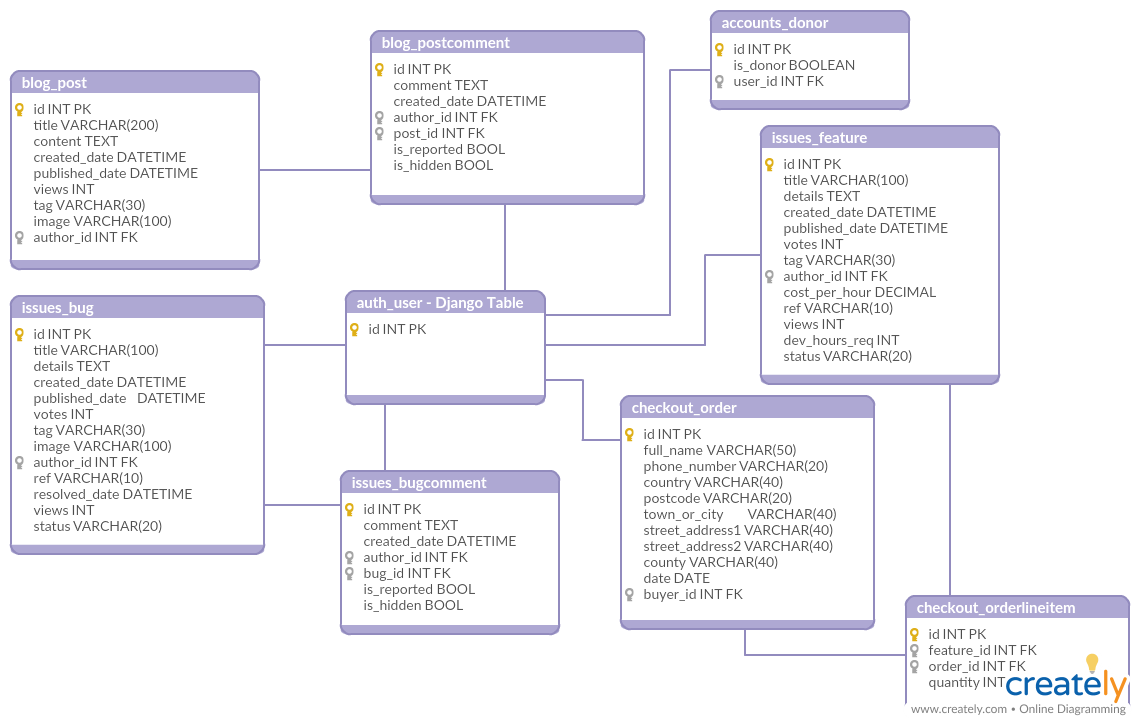
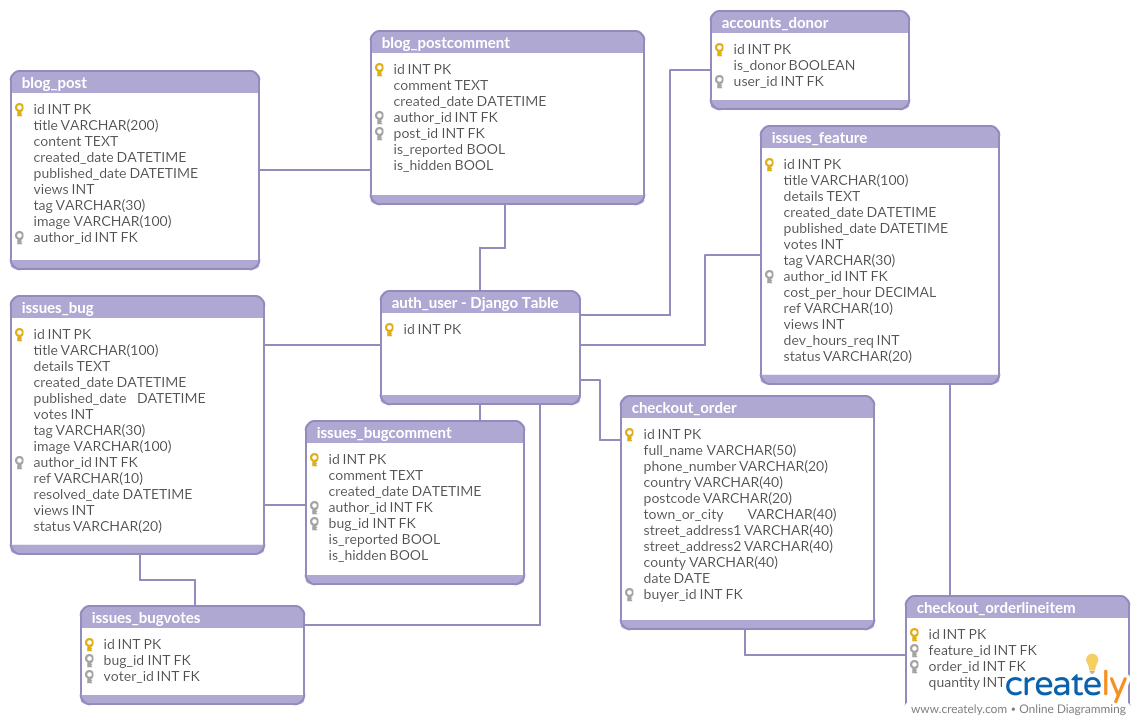
Seperated create bug and edit bug functionality. Check made on edit page to ensure editor is the author Updated db image to include bugvotes table Added alt and title tags to images Combined create reference functions for bugs and features Added remove option button on cart page Readme updates

Changed region(s): [[0.0614, 0.5462, 0.4912, 0.971], [0.307, 0.3945, 0.5219, 0.4855], [0.4605, 0.5159, 0.5219, 0.5766]]

diff --git a/issues/templates/featuredetail.html b/issues/templates/featuredetail.html
@@ -83,7 +83,7 @@
 <div class="row text-center mb-4">
     <!-- if you got to this page from orders view then go back to orders view -->
     {% if from_orders == True %}
-    <div class="col-12 col-md-3 pt-2"><a href="{{ refering_order }}" class=" btn btn-info"><i class="fas fa-arrow-left"></i>
+    <div class="col-12 col-md-3 pt-2"><a href="{{ refering_order }}" class=" btn btn-success"><i class="fas fa-arrow-left"></i>
             Back to Order Details</a></div>
     {% else %}
     <!-- ELSE GO BACK TO ALL FEATURES VIEW -->
@@ -92,7 +92,7 @@
     {% endif %}
     <!-- IF YOU ARE THE AUTHOR YOU CAN EDIT THE FEATURE -->
     {% if user.username == feature.author.username %}
-    <div class="col-12 col-md-3 pt-2"><a href="{% url 'edit_feature' feature.id %}" class="btn btn-info"><i class="far fa-edit"></i>
+    <div class="col-12 col-md-3 pt-2"><a href="{% url 'edit_feature' feature.id %}" class="btn btn-success"><i class="far fa-edit"></i>
             Edit feature</a></div>
     {% endif %}
     <!-- IF YOU ARE A SUPERUSER OR MEMBER OF ADMIN GROUP-->
@@ -104,10 +104,10 @@
     {% if feature.status == 'Target not Reached' %}
     <!-- IF YOU CREATED THE FEATURE YOU CAN DONATE 'MORE' MONEY -->
     <div class="col-12 col-md-3 pt-2">{% if user.username == feature.author.username %}
-        <button type="button" class="btn btn-info donate_feature_button"><i class="fas fa-donate"></i> Donate again</button>
+        <button type="button" class="btn btn-success donate_feature_button"><i class="fas fa-donate"></i> Donate again</button>
         {% else %}
         <!-- ELSE DONATE MONEY -->
-        <button type="button" class="btn btn-info donate_feature_button"><i class="fas fa-donate"></i> Donate</button>
+        <button type="button" class="btn btn-success donate_feature_button"><i class="fas fa-donate"></i> Donate</button>
         {% endif %}
     </div>
     {% endif %}

diff --git a/templates/base_pages.html b/templates/base_pages.html
@@ -57,7 +57,7 @@
                 </li>
                 <!-- search -->
                 <form class="form-inline my-2 my-lg-0" action="{% url 'search' %}" method="get">
-                    <input class="form-control mr-sm-2" type="text" placeholder="Search" aria-label="Search" name="q"
+                    <input class="form-control mr-sm-2" type="text" placeholder="Search..." aria-label="Search" name="q"
                         minlength="4">
                     <button class="btn btn-outline-success my-2 my-sm-0" type="submit"><i class="fas fa-search"></i>
                         Search</button>
@@ -79,8 +79,8 @@
     {% if messages %}
     <div class="mt-3 mb-2 messages-wrapper">
         {% for message in messages %}
-        <div class="text-right messages alert-success boldtext">{{ message }}
-            <button type="button" class="close-message btn btn-success px-0 py-0 ml-2">&times;</button>
+        <div class="text-right messages alert-danger boldtext pr-5">{{ message }}
+            <button type="button" class="close-message btn px-0 py-0 ml-2">&times;</button>
         </div>
         {% endfor %}
     </div>
@@ -95,7 +95,7 @@
                             View all Bugs</a>
                     </li>
                     <li class="list-group-item d-flex justify-content-between align-items-center">
-                        <a href="{% url 'new_bug' %}" class="btn btn-primary issues-button"><i class="fas fa-plus-square"></i>
+                        <a href="{% url 'create_bug' %}" class="btn btn-primary issues-button"><i class="fas fa-plus-square"></i>
                             Submit a Bug</a>
                     </li>
                     <li class="list-group-item d-flex justify-content-between align-items-center">

diff --git a/issues/templates/bugform_new.html b/issues/templates/bugform_new.html
@@ -2,7 +2,7 @@
 {% load bootstrap_tags %}
 {% block page_title %}Submit Bug{% endblock %}
 
-{% block page_heading %}Bug{% endblock %}
+{% block page_heading %}New Bug{% endblock %}
 {% block page_heading_sub %}Submit a Bug for investigation{% endblock %}
 
 {% block content %}
@@ -11,23 +11,13 @@
     <div class="container">
         <div class="row">
             <div class="col-12">
-                {% if request.path == '/issues/new/' %}
-                <h1>New bug</h1>
-                {% else %}
-                <h1>Edit bug</h1>
-                {% endif %}
                 <form method="POST" enctype="multipart/form-data">
                     {% csrf_token %}
                     {{ form | as_bootstrap }}
                     <div class="text-center mb-2">
                         <button type="submit" class="btn btn-success"><i class="far fa-save"></i> Save</button>
-                        {% if request.path != '/issues/new/' %}
-                        <button type="submit" name="cancel" value="Cancel" formnovalidate class="btn btn-success cancel"><i
-                                class="fas fa-arrow-left"></i> Cancel</button>
-                        {% else %}
                         <button type="button" class="btn btn-success cancel" id="goback" ONCLICK="goPrev()"><i class="fas fa-arrow-left"></i>
                             Cancel</button>
-                        {% endif %}
                     </div>
                 </form>
             </div>

diff --git a/issues/templates/bugform_edit.html b/issues/templates/bugform_edit.html
@@ -1,0 +1,33 @@
+{% extends 'base_pages.html' %}
+{% load bootstrap_tags %}
+{% block page_title %}Edit Bug{% endblock %}
+
+{% block page_heading %}Edit Bug{% endblock %}
+{% block page_heading_sub %}Edit Bug details{% endblock %}
+
+{% block content %}
+<!-- CREATE OR EDIT A BUG -->
+<div id="issueform">
+    <div class="container">
+        <div class="row">
+            <div class="col-12">
+                <h1>Edit bug</h1>
+                <form method="POST" enctype="multipart/form-data">
+                    {% csrf_token %}
+                    {{ form | as_bootstrap }}
+                    <div class="text-center mb-2">
+                        <button type="submit" class="btn btn-success"><i class="far fa-save"></i> Save</button>
+                        {% if request.path != '/issues/editbug/' %}
+                        <button type="submit" name="cancel" value="Cancel" formnovalidate class="btn btn-success cancel"><i
+                                class="fas fa-arrow-left"></i> Cancel</button>
+                        {% else %}
+                        <button type="button" class="btn btn-success cancel" id="goback" ONCLICK="goPrev()"><i class="fas fa-arrow-left"></i>
+                            Cancel</button>
+                        {% endif %}
+                    </div>
+                </form>
+            </div>
+        </div>
+    </div>
+</div>
+{% endblock %}

diff --git a/issues/templates/bugdetail.html b/issues/templates/bugdetail.html
@@ -18,7 +18,7 @@
     <div class="row mb-4">
         {% if bug.image %}
         <div class="col-12 col-md-3">
-            <img class="img-blogpost" src="{{ MEDIA_URL }}{{ bug.image }}">
+            <img class="img-blogpost" src="{{ MEDIA_URL }}{{ bug.image }}" alt="{{bug.title}}" title="{{bug.title}}">
         </div>
         {% endif %}
         <div class="col-12 col-md-9">
@@ -68,7 +68,7 @@
                 Back to Bugs</a></div>
         <!-- IF USER IS THE AUTHOR -->
         {% if user.username == bug.author.username %}
-        <div class="col-12 col-md-3 pt-2"><a href="{% url 'edit_bug' bug.id %}" class="btn btn-info"><i class="far fa-edit"></i>
+        <div class="col-12 col-md-3 pt-2"><a href="{% url 'edit_bug' bug.id %}" class="btn btn-success"><i class="far fa-edit"></i>
                 Edit bug</a></div>
         {% endif %}
         <!-- IF USER IS NOT THE AUTHOR -->
@@ -85,7 +85,7 @@
         {% else %}
         <div class="col-12 col-md-3 pt-2">
             <a href="#" class="btn btn-light disabled">Vote <i class="fas fa-arrow-up"></i></a>
-            <span class="text-nowrap small">You have previously voted for this Bug</span>
+            <span class="text-nowrap small">You have voted for this Bug</span>
         </div>
         {% endif %}
         <!-- IF YOU ARE A SUPERUSER OR MEMBER OF ADMIN GROUP-->

diff --git a/templates/base.html b/templates/base.html
@@ -57,7 +57,7 @@
                 </li>
                 <!-- search -->
                 <form class="form-inline my-2 my-lg-0" action="{% url 'search' %}" method="get">
-                    <input class="form-control mr-sm-2" type="text" placeholder="Search" aria-label="Search" name="q"
+                    <input class="form-control mr-sm-2" type="text" placeholder="Search..." aria-label="Search" name="q"
                         minlength="4">
                     <button class="btn btn-outline-success my-2 my-sm-0" type="submit"><i class="fas fa-search"></i>
                         Search</button>

diff --git a/cart/templates/cart.html b/cart/templates/cart.html
@@ -53,7 +53,9 @@
                         <div class="input-group-addon pl-4 pr-4">{{ item.quantity }}</div>
                     </div>
                 </div>
-                <button type="submit" class="btn btn-primary"><i class="far fa-edit"></i>Update</button>
+                <button type="submit" class="btn btn-primary mr-2"><i class="far fa-edit"></i>Update</button>
+                <a href="{% url 'remove_from_cart' item.id %}" class="btn btn-primary" role="button">
+                    <i class="far fa-times-circle pr-2"></i>Remove</a>
             </form>
         </div>
     </div>

diff --git a/blog/templates/postdetail.html b/blog/templates/postdetail.html
@@ -13,7 +13,7 @@
     <div class="row">
         {% if post.image %}
         <div class="col-12 col-md-3">
-            <img class="img-blogpost" src="{{ MEDIA_URL }}{{ post.image }}">
+            <img class="img-blogpost" src="{{ MEDIA_URL }}{{ post.image }}" alt="{{post.title}}" title="{{post.title}}">
         </div>
         {% endif %}
         <div class="col-12 col-md-9">

diff --git a/issues/views.py b/issues/views.py
@@ -1,4 +1,5 @@
 from django.shortcuts import render, get_object_or_404, redirect
+from django.contrib import messages
 from django.contrib.auth.decorators import login_required
 from django.utils import timezone
 from .models import Bug, Feature, BugComment, BugVotes
@@ -10,25 +11,21 @@ from checkout.models import OrderLineItem
 from django.core.paginator import Paginator, EmptyPage, PageNotAnInteger
 from .filters import BugsFilter, FeaturesFilter
 from django.db.models import Q
-from django.contrib import messages
 
 
 # Create your views here.
 
-def create_feature_ref():
+def create_ref(item_type):
     """
-    Create custom reference number for Features using random letters and numbers
+    Create custom reference number for Bugs & Features using random letters and numbers
+    Bug-xxxxx
     Feat-xxxxx
     """
-    return str("Feat-")+str(uuid4())[:5]
-
-
-def create_ref():
-    """
-    Create custom reference number for Bugs using random letters and numbers
-    Bug-xxxxx
-    """
-    return str("Bug-")+str(uuid4())[:5]
+    # GET ITEM TYPE
+    if item_type == 'b':
+        return str("Bug-")+str(uuid4())[:5]
+    elif item_type == 'f':
+        return str("Feat-")+str(uuid4())[:5]
 
 
 @login_required
@@ -121,30 +118,54 @@ def bug_detail(request, pk):
 
 
 @login_required
-def create_or_edit_bug(request, pk=None):
+def create_bug(request, pk=None):
     """
-    Create a view that allows us to create
-    or edit a bug depending if the Bug ID
-    is null or not
+    Create a view that allows us to create a bug
     """
-    # GET BUG BY ID (PK) FOR EDIT MODE
-    bug = get_object_or_404(Bug, pk=pk) if pk else None
     if request.method == "POST":
-        if "cancel" in request.POST:
-            return redirect(bug_detail, bug.pk)
         # POPULATE FORM WITH BUG DETAILS IF EDIT MODE
-        form = BugForm(request.POST, request.FILES, instance=bug)
+        form = BugForm(request.POST, request.FILES)
         if form.is_valid():
             bug = form.save(commit=False)
             # ADD CURRENT USER AS AUTHOR
             bug.author = request.user
             # ADD GENERATED CUSTOM REFERENCE
-            bug.ref = create_ref()
+            bug.ref = create_ref('b')
             bug.save()
-            return redirect(bug_detail, bug.pk)
+            return redirect(get_all_bugs)
     else:
-        form = BugForm(instance=bug)
-    return render(request, 'bugform.html', {'form': form})
+        form = BugForm()
+    return render(request, 'bugform_new.html', {'form': form})
+
+
+@login_required
+def edit_bug(request, pk=None):
+    """
+    Create a view that allows us to edit a bug
+    """
+    # GET BUG BY ID (PK) FOR EDIT MODE
+    bug = get_object_or_404(Bug, pk=pk) if pk else None
+    # CHECK THAT USER IS THE AUTHOR
+    # ONLY THE AUTHOR CAN EDIT THEIR OWN BUG
+    if bug.author == request.user:
+        if request.method == "POST":
+            # CANCEL BUTTON
+            if "cancel" in request.POST:
+                return redirect(bug_detail, bug.pk)
+            # POPULATE FORM WITH BUG DETAILS IF EDIT MODE
+            form = BugForm(request.POST, request.FILES, instance=bug)
+            if form.is_valid():
+                bug = form.save(commit=False)
+                # ADD GENERATED CUSTOM REFERENCE
+                bug.save()
+                return redirect(bug_detail, bug.pk)
+        else:
+            form = BugForm(instance=bug)
+    else:
+        messages.warning(
+            request, "You did not create this bug, so cannot edit it.")
+        return redirect(get_all_bugs)
+    return render(request, 'bugform_edit.html', {'form': form})
 
 
 @login_required
@@ -261,7 +282,7 @@ def new_feature(request):
             # NEW FEATURE SAVED WITH STATUS: 'Pending Payment'
             feature = form.save(commit=False)
             feature.author = request.user
-            feature.ref = create_feature_ref()
+            feature.ref = create_ref('f')
             feature.save()
             # GET THIS FEATURE ID BASED ON REF JUST CREATED - feature.ref = create_feature_ref()
             this_feature = Feature.objects.filter(ref=feature.ref)
@@ -280,20 +301,27 @@ def edit_feature(request, pk=None):
     Create a view that allows us to
     edit a feature depending if the Feature ID is null or not
     """
-
+    # GET FEATURE BY ID (PK) FOR EDIT MODE
     feature = get_object_or_404(Feature, pk=pk) if pk else None
-    if request.method == "POST":
-        # CANCEL BUTTON
-        if "cancel" in request.POST:
-            return redirect(feature_detail, feature.pk)
-        # EDIT AND SAVE FEATURE DETAILS BASED ON ID (PK)
-        form = FeatureForm(request.POST, request.FILES, instance=feature)
-        if form.is_valid():
-            feature = form.save(commit=False)
-            feature.save()
-            return redirect(feature_detail, feature.pk)
+    # CHECK THAT USER IS THE AUTHOR
+    # ONLY THE AUTHOR CAN EDIT THEIR OWN FEATURE
+    if feature.author == request.user:
+        if request.method == "POST":
+            # CANCEL BUTTON
+            if "cancel" in request.POST:
+                return redirect(feature_detail, feature.pk)
+            # EDIT AND SAVE FEATURE DETAILS BASED ON ID (PK)
+            form = FeatureForm(request.POST, request.FILES, instance=feature)
+            if form.is_valid():
+                feature = form.save(commit=False)
+                feature.save()
+                return redirect(feature_detail, feature.pk)
+        else:
+            form = FeatureForm(instance=feature)
     else:
-        form = FeatureForm(instance=feature)
+        messages.warning(
+            request, "You did not create this feature, so cannot edit it.")
+        return redirect(get_all_features)
     return render(request, 'featureform_edit.html', {'form': form})
 
 

diff --git a/issues/urls.py b/issues/urls.py
@@ -2,7 +2,7 @@
 from django.conf.urls import url
 
 from issues.views import get_all_bugs, bug_detail,\
-    create_or_edit_bug, vote_bug,\
+    create_bug, edit_bug, vote_bug,\
     get_all_features, feature_detail,\
     new_feature, edit_feature, bug_comment_report,\
     super_admin, comment_toggle_hide, admin_edit
@@ -10,9 +10,9 @@ from issues.views import get_all_bugs, bug_detail,\
 
 urlpatterns = [
     url(r'^$', get_all_bugs, name='get_all_bugs'),
-    url(r'^(?P<pk>\d+)/edit/$', create_or_edit_bug, name='edit_bug'),
+    url(r'^(?P<pk>\d+)/editbug/$', edit_bug, name='edit_bug'),
     url(r'^(?P<pk>\d+)/$', bug_detail, name='bug_detail'),
-    url(r'^new/$', create_or_edit_bug, name='new_bug'),
+    url(r'^newbug/$', create_bug, name='create_bug'),
     url(r'^(?P<pk>\d+)/vote/$', vote_bug, name='vote_bug'),
 
     url(r'^all_features$', get_all_features, name='get_all_features'),

diff --git a/cart/urls.py b/cart/urls.py
@@ -1,9 +1,10 @@
 from django.conf.urls import url
-from .views import view_cart, add_to_cart, adjust_cart
+from .views import view_cart, add_to_cart, adjust_cart, remove_from_cart
 
 
 urlpatterns = [
     url(r'^$', view_cart, name="view_cart"),
     url(r'^add/(?P<id>\d+)', add_to_cart, name='add_to_cart'),
     url(r'^adjust/(?P<id>\d+)', adjust_cart, name='adjust_cart'),
+    url(r'^remove/(?P<id>\d+)', remove_from_cart, name='remove_from_cart'),
 ]

diff --git a/cart/views.py b/cart/views.py
@@ -33,3 +33,12 @@ def adjust_cart(request, id):
 
     request.session['cart'] = cart
     return redirect(reverse('view_cart'))
+
+
+@login_required
+def remove_from_cart(request, id):
+    """ Remove item from cart """
+    cart = request.session.get('cart', {})
+    cart.pop(id)
+    request.session['cart'] = cart
+    return redirect('view_cart')
